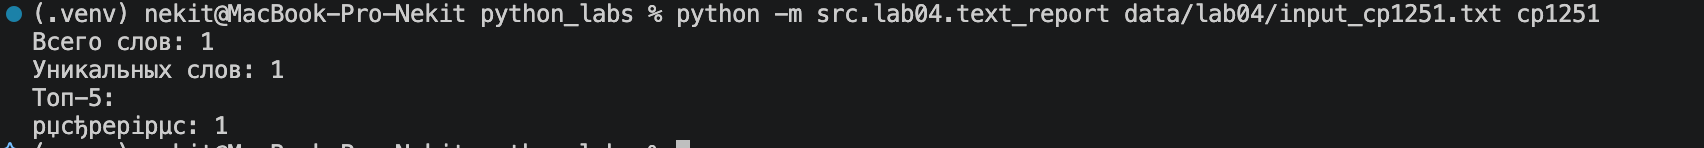
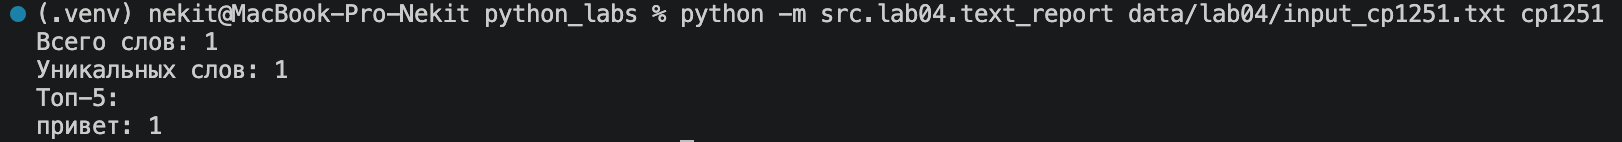
---

diff --git a/src/lab04/io_txt_csv.py b/src/lab04/io_txt_csv.py
@@ -25,7 +25,7 @@ def write_csv(rows: list[tuple | list], path: str | Path,
     file = Path(path)
     file.parent.mkdir(parents=True, exist_ok=True)
 
-    with file.open("w", newline="", encoding="utf-8") as f:
+    with file.open("w", newline="", encoding="utf-8") as f: 
         w = csv.writer(f)
 
         if header is not None:

diff --git a/src/lab04/README.md b/src/lab04/README.md
@@ -18,6 +18,51 @@
 
 ---
 
+## Запуск программы
+
+Все команды выполняются из корневой папки проекта.
+
+Для запуска используется `python -m`, который позволяет запускать файлы как модули Python.
+
+**1. Запуск первого задания:**
+
+```bash
+python -m src.lab04.io_txt_csv
+```
+
+Программа читает `input.txt` и создаёт файл `check.csv`.
+
+**2. Запуск второго задания:**
+
+```bash
+python -m src.lab04.text_report
+```
+
+Программа использует файл `data/lab04/input.txt` с кодировкой UTF-8 и создаёт отчёт `report.csv`.
+
+**3. Запуск с указанием другого файла:**
+
+```bash
+python -m src.lab04.text_report data/lab04/input.txt
+```
+
+**4. Запуск с другой кодировкой (CP1251):**
+
+```bash
+python -m src.lab04.text_report data/lab04/input_cp1251.txt cp1251
+```
+
+### Аргументы командной строки
+
+Для передачи пути и кодировки используется `sys.argv`.
+
+- `sys.argv[1]` — путь к входному файлу.
+- `sys.argv[2]` — кодировка файла.
+
+Если аргументы не указаны, используются `data/lab04/input.txt` и кодировка `utf-8`.
+
+---
+
 ## 1 Задание
 
 ### `read_text`
@@ -134,6 +179,12 @@ def main():
 
 ### Тестирование `main`
 
+Запуск программы:
+
+```bash
+python -m src.lab04.text_report
+```
+
 ![Тестирование main](../../images/lab04/main.png)
 
 ---
@@ -157,6 +208,14 @@ def main():
 ### Проверка другой кодировки
 
 Программа поддерживает чтение файлов в другой кодировке, например CP1251.
+
+Для проверки используется команда:
+
+```bash
+python -m src.lab04.text_report data/lab04/input_cp1251.txt cp1251
+```
+
+Кодировка передаётся вторым аргументом командной строки. Сам файл должен быть сохранён в CP1251.
 
 ![Проверка кодировки](../../images/lab04/encoding.png)
 
